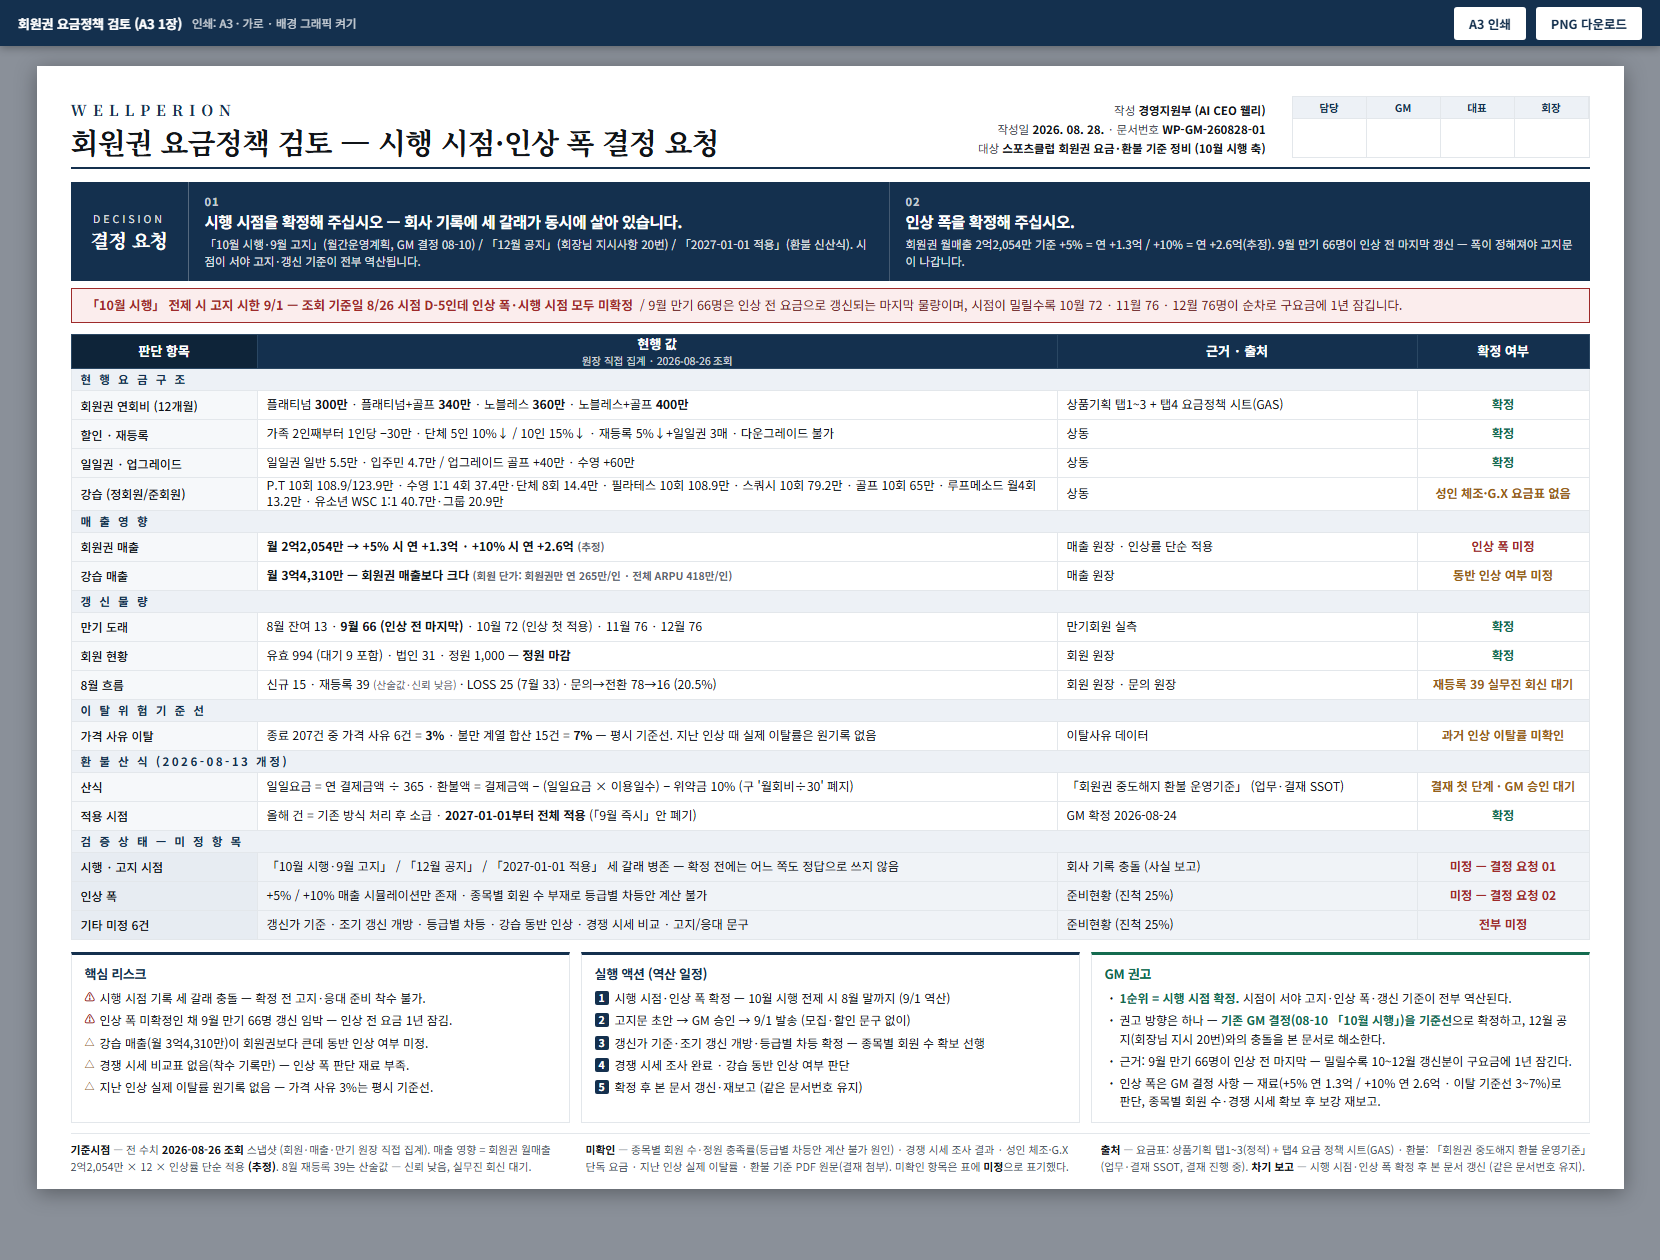
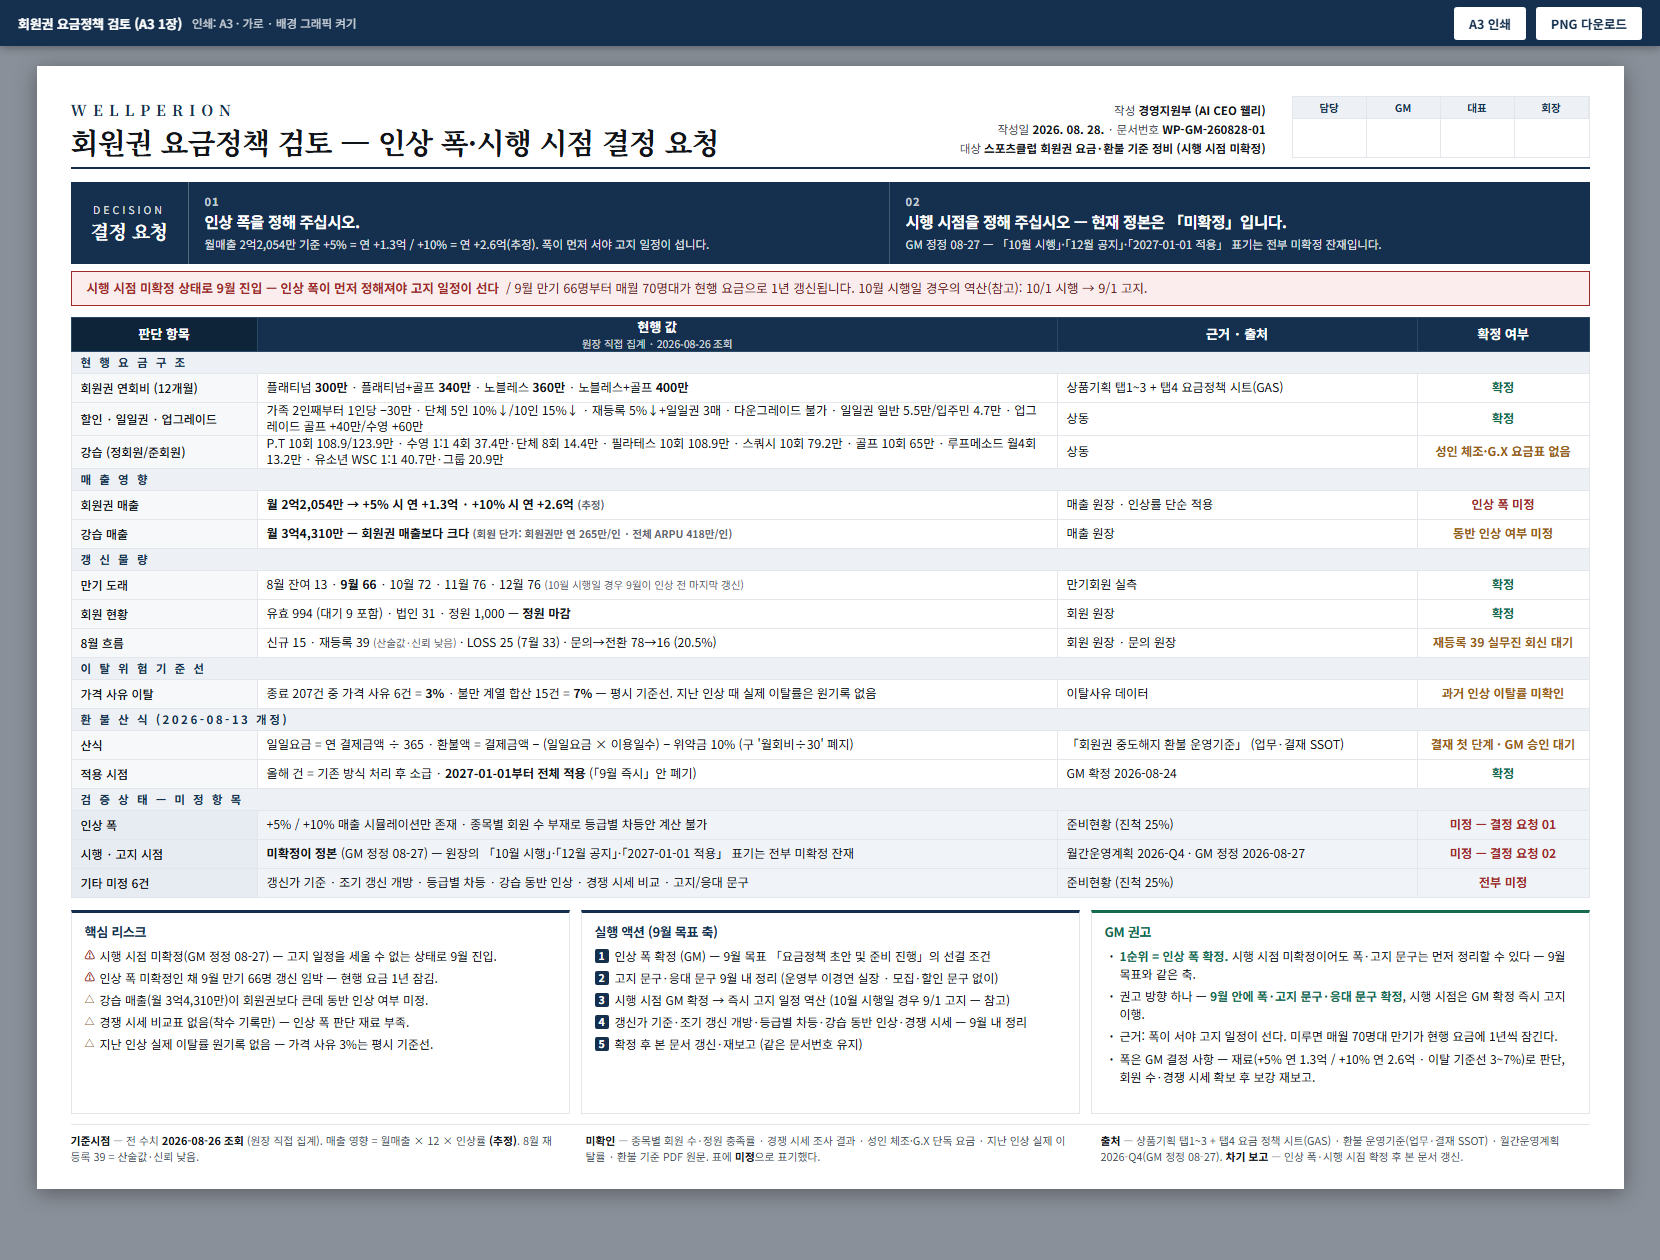
docs(ceo): 요금정책 A3 정정 — 시행 시점 미확정이 정본(GM 정정 08-27) 반영 (배11045)

Changed region(s): [[0.0307, 0.1548, 0.9524, 0.9286], [0.5837, 0.0929, 0.7681, 0.1238], [0.2151, 0.0929, 0.3687, 0.1238]]

diff --git a/3. 웰페리온 가이드/reports/260828_회원권요금정책_A3.html b/3. 웰페리온 가이드/reports/260828_회원권요금정책_A3.html
@@ -2,7 +2,7 @@
 <html lang="ko">
 <head>
 <meta charset="UTF-8">
-<title>회원권 요금정책 검토 — 웰페리온 A3 보고서</title>
+<title>회원권 요금정책 검토 — 인상 폭·시행 시점 결정 요청 (웰페리온 A3)</title>
 <link rel="preconnect" href="https://fonts.googleapis.com">
 <link rel="preconnect" href="https://fonts.gstatic.com" crossorigin>
 <link href="https://fonts.googleapis.com/css2?family=Noto+Sans+KR:wght@400;500;700;900&family=Noto+Serif+KR:wght@600;700&display=swap" rel="stylesheet">
@@ -125,12 +125,12 @@
   <div class="head">
     <div>
       <div class="brand">WELLPERION</div>
-      <div class="title">회원권 요금정책 검토 — 시행 시점·인상 폭 결정 요청</div>
+      <div class="title">회원권 요금정책 검토 — 인상 폭·시행 시점 결정 요청</div>
     </div>
     <div class="meta">
       작성 <b>경영지원부 (AI CEO 웰리)</b><br>
       작성일 <b>2026. 08. 28.</b> · 문서번호 <b>WP-GM-260828-01</b><br>
-      대상 <b>스포츠클럽 회원권 요금·환불 기준 정비 (10월 시행 축)</b>
+      대상 <b>스포츠클럽 회원권 요금·환불 기준 정비 (시행 시점 미확정)</b>
     </div>
     <div class="sign">
       <div><div class="t">담당</div><div class="b"></div></div>
@@ -146,21 +146,21 @@
     <div class="items">
       <div class="it">
         <div class="n">01</div>
-        <div class="q">시행 시점을 확정해 주십시오 — 회사 기록에 세 갈래가 동시에 살아 있습니다.</div>
-        <div class="d">「10월 시행·9월 고지」(월간운영계획, GM 결정 08-10) / 「12월 공지」(회장님 지시사항 20번) / 「2027-01-01 적용」(환불 신산식). 시점이 서야 고지·갱신 기준이 전부 역산됩니다.</div>
+        <div class="q">인상 폭을 정해 주십시오.</div>
+        <div class="d">월매출 2억2,054만 기준 +5% = 연 +1.3억 / +10% = 연 +2.6억(추정). 폭이 먼저 서야 고지 일정이 섭니다.</div>
       </div>
       <div class="it">
         <div class="n">02</div>
-        <div class="q">인상 폭을 확정해 주십시오.</div>
-        <div class="d">회원권 월매출 2억2,054만 기준 +5% = 연 +1.3억 / +10% = 연 +2.6억(추정). 9월 만기 66명이 인상 전 마지막 갱신 — 폭이 정해져야 고지문이 나갑니다.</div>
+        <div class="q">시행 시점을 정해 주십시오 — 현재 정본은 「미확정」입니다.</div>
+        <div class="d">GM 정정 08-27 — 「10월 시행」·「12월 공지」·「2027-01-01 적용」 표기는 전부 미확정 잔재입니다.</div>
       </div>
     </div>
   </div>
 
   <!-- 경고 밴드 -->
   <div class="alert">
-    「10월 시행」 전제 시 고지 시한 9/1 — 조회 기준일 8/26 시점 D-5인데 인상 폭·시행 시점 모두 미확정
-    <span>&nbsp;/ 9월 만기 66명은 인상 전 요금으로 갱신되는 마지막 물량이며, 시점이 밀릴수록 10월 72 · 11월 76 · 12월 76명이 순차로 구요금에 1년 잠깁니다.</span>
+    시행 시점 미확정 상태로 9월 진입 — 인상 폭이 먼저 정해져야 고지 일정이 선다
+    <span>&nbsp;/ 9월 만기 66명부터 매월 70명대가 현행 요금으로 1년 갱신됩니다. 10월 시행일 경우의 역산(참고): 10/1 시행 → 9/1 고지.</span>
   </div>
 
   <!-- ③ 판단표 -->
@@ -178,8 +178,7 @@
     <tbody>
       <tr class="grp"><td colspan="4">현 행 요 금 구 조</td></tr>
       <tr><td class="k">회원권 연회비 (12개월)</td><td>플래티넘 <b>300만</b> · 플래티넘+골프 <b>340만</b> · 노블레스 <b>360만</b> · 노블레스+골프 <b>400만</b></td><td>상품기획 탭1~3 + 탭4 요금정책 시트(GAS)</td><td class="ctr good">확정</td></tr>
-      <tr><td class="k">할인 · 재등록</td><td>가족 2인째부터 1인당 −30만 · 단체 5인 10%↓ / 10인 15%↓ · 재등록 5%↓+일일권 3매 · 다운그레이드 불가</td><td>상동</td><td class="ctr good">확정</td></tr>
-      <tr><td class="k">일일권 · 업그레이드</td><td>일일권 일반 5.5만 · 입주민 4.7만 / 업그레이드 골프 +40만 · 수영 +60만</td><td>상동</td><td class="ctr good">확정</td></tr>
+      <tr><td class="k">할인 · 일일권 · 업그레이드</td><td>가족 2인째부터 1인당 −30만 · 단체 5인 10%↓/10인 15%↓ · 재등록 5%↓+일일권 3매 · 다운그레이드 불가 · 일일권 일반 5.5만/입주민 4.7만 · 업그레이드 골프 +40만/수영 +60만</td><td>상동</td><td class="ctr good">확정</td></tr>
       <tr><td class="k">강습 (정회원/준회원)</td><td>P.T 10회 108.9/123.9만 · 수영 1:1 4회 37.4만·단체 8회 14.4만 · 필라테스 10회 108.9만 · 스쿼시 10회 79.2만 · 골프 10회 65만 · 루프메소드 월4회 13.2만 · 유소년 WSC 1:1 40.7만·그룹 20.9만</td><td>상동</td><td class="ctr warn">성인 체조·G.X 요금표 없음</td></tr>
 
       <tr class="grp"><td colspan="4">매 출 영 향</td></tr>
@@ -187,7 +186,7 @@
       <tr><td class="k">강습 매출</td><td class="strong">월 3억4,310만 — 회원권 매출보다 크다 <span class="est">(회원 단가: 회원권만 연 265만/인 · 전체 ARPU 418만/인)</span></td><td>매출 원장</td><td class="ctr warn">동반 인상 여부 미정</td></tr>
 
       <tr class="grp"><td colspan="4">갱 신 물 량</td></tr>
-      <tr><td class="k">만기 도래</td><td>8월 잔여 13 · <b>9월 66 (인상 전 마지막)</b> · 10월 72 (인상 첫 적용) · 11월 76 · 12월 76</td><td>만기회원 실측</td><td class="ctr good">확정</td></tr>
+      <tr><td class="k">만기 도래</td><td>8월 잔여 13 · <b>9월 66</b> · 10월 72 · 11월 76 · 12월 76 <span class="est">(10월 시행일 경우 9월이 인상 전 마지막 갱신)</span></td><td>만기회원 실측</td><td class="ctr good">확정</td></tr>
       <tr><td class="k">회원 현황</td><td>유효 994 (대기 9 포함) · 법인 31 · 정원 1,000 — <b>정원 마감</b></td><td>회원 원장</td><td class="ctr good">확정</td></tr>
       <tr><td class="k">8월 흐름</td><td>신규 15 · 재등록 39 <span class="est">(산술값·신뢰 낮음)</span> · LOSS 25 (7월 33) · 문의→전환 78→16 (20.5%)</td><td>회원 원장 · 문의 원장</td><td class="ctr warn">재등록 39 실무진 회신 대기</td></tr>
 
@@ -199,8 +198,8 @@
       <tr><td class="k">적용 시점</td><td>올해 건 = 기존 방식 처리 후 소급 · <b>2027-01-01부터 전체 적용</b> (「9월 즉시」안 폐기)</td><td>GM 확정 2026-08-24</td><td class="ctr good">확정</td></tr>
 
       <tr class="grp"><td colspan="4">검 증 상 태 — 미 정 항 목</td></tr>
-      <tr class="sum"><td class="k">시행 · 고지 시점</td><td>「10월 시행·9월 고지」 / 「12월 공지」 / 「2027-01-01 적용」 세 갈래 병존 — 확정 전에는 어느 쪽도 정답으로 쓰지 않음</td><td>회사 기록 충돌 (사실 보고)</td><td class="ctr bad strong">미정 — 결정 요청 01</td></tr>
-      <tr class="sum"><td class="k">인상 폭</td><td>+5% / +10% 매출 시뮬레이션만 존재 · 종목별 회원 수 부재로 등급별 차등안 계산 불가</td><td>준비현황 (진척 25%)</td><td class="ctr bad strong">미정 — 결정 요청 02</td></tr>
+      <tr class="sum"><td class="k">인상 폭</td><td>+5% / +10% 매출 시뮬레이션만 존재 · 종목별 회원 수 부재로 등급별 차등안 계산 불가</td><td>준비현황 (진척 25%)</td><td class="ctr bad strong">미정 — 결정 요청 01</td></tr>
+      <tr class="sum"><td class="k">시행 · 고지 시점</td><td><b>미확정이 정본</b> (GM 정정 08-27) — 원장의 「10월 시행」·「12월 공지」·「2027-01-01 적용」 표기는 전부 미확정 잔재</td><td>월간운영계획 2026-Q4 · GM 정정 2026-08-27</td><td class="ctr bad strong">미정 — 결정 요청 02</td></tr>
       <tr class="sum"><td class="k">기타 미정 6건</td><td>갱신가 기준 · 조기 갱신 개방 · 등급별 차등 · 강습 동반 인상 · 경쟁 시세 비교 · 고지/응대 문구</td><td>준비현황 (진척 25%)</td><td class="ctr bad strong">전부 미정</td></tr>
     </tbody>
   </table>
@@ -211,39 +210,39 @@
     <div class="box">
       <h3>핵심 리스크</h3>
       <ul>
-        <li class="r1">시행 시점 기록 세 갈래 충돌 — 확정 전 고지·응대 준비 착수 불가.</li>
-        <li class="r1">인상 폭 미확정인 채 9월 만기 66명 갱신 임박 — 인상 전 요금 1년 잠김.</li>
+        <li class="r1">시행 시점 미확정(GM 정정 08-27) — 고지 일정을 세울 수 없는 상태로 9월 진입.</li>
+        <li class="r1">인상 폭 미확정인 채 9월 만기 66명 갱신 임박 — 현행 요금 1년 잠김.</li>
         <li class="r2">강습 매출(월 3억4,310만)이 회원권보다 큰데 동반 인상 여부 미정.</li>
         <li class="r2">경쟁 시세 비교표 없음(착수 기록만) — 인상 폭 판단 재료 부족.</li>
         <li class="r2">지난 인상 실제 이탈률 원기록 없음 — 가격 사유 3%는 평시 기준선.</li>
       </ul>
     </div>
     <div class="box">
-      <h3>실행 액션 (역산 일정)</h3>
+      <h3>실행 액션 (9월 목표 축)</h3>
       <ul class="ord">
-        <li class="n">시행 시점·인상 폭 확정 — 10월 시행 전제 시 8월 말까지 (9/1 역산)</li>
-        <li class="n">고지문 초안 → GM 승인 → 9/1 발송 (모집·할인 문구 없이)</li>
-        <li class="n">갱신가 기준·조기 갱신 개방·등급별 차등 확정 — 종목별 회원 수 확보 선행</li>
-        <li class="n">경쟁 시세 조사 완료 · 강습 동반 인상 여부 판단</li>
+        <li class="n">인상 폭 확정 (GM) — 9월 목표 「요금정책 초안 및 준비 진행」의 선결 조건</li>
+        <li class="n">고지 문구·응대 문구 9월 내 정리 (운영부 이경연 실장 · 모집·할인 문구 없이)</li>
+        <li class="n">시행 시점 GM 확정 → 즉시 고지 일정 역산 (10월 시행일 경우 9/1 고지 — 참고)</li>
+        <li class="n">갱신가 기준·조기 갱신 개방·등급별 차등·강습 동반 인상·경쟁 시세 — 9월 내 정리</li>
         <li class="n">확정 후 본 문서 갱신·재보고 (같은 문서번호 유지)</li>
       </ul>
     </div>
     <div class="box rec">
       <h3>GM 권고</h3>
       <ul>
-        <li><b>1순위 = 시행 시점 확정.</b> 시점이 서야 고지·인상 폭·갱신 기준이 전부 역산된다.</li>
-        <li>권고 방향은 하나 — <b>기존 GM 결정(08-10 「10월 시행」)을 기준선</b>으로 확정하고, 12월 공지(회장님 지시 20번)와의 충돌을 본 문서로 해소한다.</li>
-        <li>근거: 9월 만기 66명이 인상 전 마지막 — 밀릴수록 10~12월 갱신분이 구요금에 1년 잠긴다.</li>
-        <li>인상 폭은 GM 결정 사항 — 재료(+5% 연 1.3억 / +10% 연 2.6억 · 이탈 기준선 3~7%)로 판단, 종목별 회원 수·경쟁 시세 확보 후 보강 재보고.</li>
+        <li><b>1순위 = 인상 폭 확정.</b> 시행 시점 미확정이어도 폭·고지 문구는 먼저 정리할 수 있다 — 9월 목표와 같은 축.</li>
+        <li>권고 방향 하나 — <b>9월 안에 폭·고지 문구·응대 문구 확정</b>, 시행 시점은 GM 확정 즉시 고지 이행.</li>
+        <li>근거: 폭이 서야 고지 일정이 선다. 미루면 매월 70명대 만기가 현행 요금에 1년씩 잠긴다.</li>
+        <li>폭은 GM 결정 사항 — 재료(+5% 연 1.3억 / +10% 연 2.6억 · 이탈 기준선 3~7%)로 판단, 회원 수·경쟁 시세 확보 후 보강 재보고.</li>
       </ul>
     </div>
   </div>
 
   <!-- ⑤ 각주 -->
   <div class="foot">
-    <div><b>기준시점</b> — 전 수치 <b>2026-08-26 조회</b> 스냅샷 (회원·매출·만기 원장 직접 집계). 매출 영향 = 회원권 월매출 2억2,054만 × 12 × 인상률 단순 적용 <b>(추정)</b>. 8월 재등록 39는 산술값 — 신뢰 낮음, 실무진 회신 대기.</div>
-    <div><b>미확인</b> — 종목별 회원 수·정원 충족률(등급별 차등안 계산 불가 원인) · 경쟁 시세 조사 결과 · 성인 체조·G.X 단독 요금 · 지난 인상 실제 이탈률 · 환불 기준 PDF 원문(결재 첨부). 미확인 항목은 표에 <b>미정</b>으로 표기했다.</div>
-    <div><b>출처</b> — 요금표: 상품기획 탭1~3(정적) + 탭4 요금 정책 시트(GAS) · 환불: 「회원권 중도해지 환불 운영기준」(업무·결재 SSOT, 결재 진행 중). <b>차기 보고</b> — 시행 시점·인상 폭 확정 후 본 문서 갱신 (같은 문서번호 유지).</div>
+    <div><b>기준시점</b> — 전 수치 <b>2026-08-26 조회</b> (원장 직접 집계). 매출 영향 = 월매출 × 12 × 인상률 <b>(추정)</b>. 8월 재등록 39 = 산술값·신뢰 낮음.</div>
+    <div><b>미확인</b> — 종목별 회원 수·정원 충족률 · 경쟁 시세 조사 결과 · 성인 체조·G.X 단독 요금 · 지난 인상 실제 이탈률 · 환불 기준 PDF 원문. 표에 <b>미정</b>으로 표기했다.</div>
+    <div><b>출처</b> — 상품기획 탭1~3 + 탭4 요금 정책 시트(GAS) · 환불 운영기준(업무·결재 SSOT) · 월간운영계획 2026-Q4(GM 정정 08-27). <b>차기 보고</b> — 인상 폭·시행 시점 확정 후 본 문서 갱신.</div>
   </div>
 
 </div>
